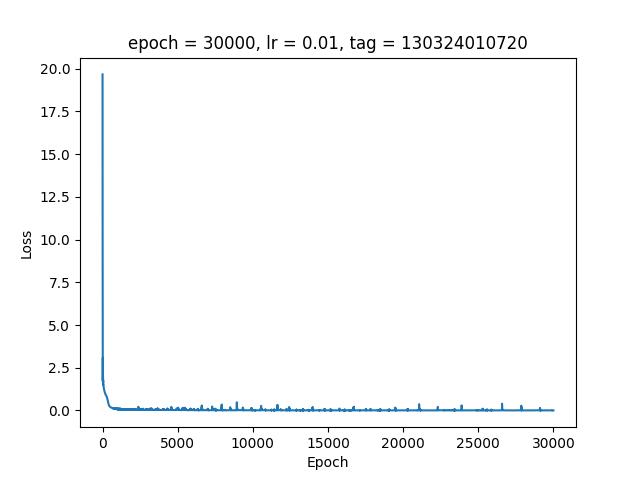
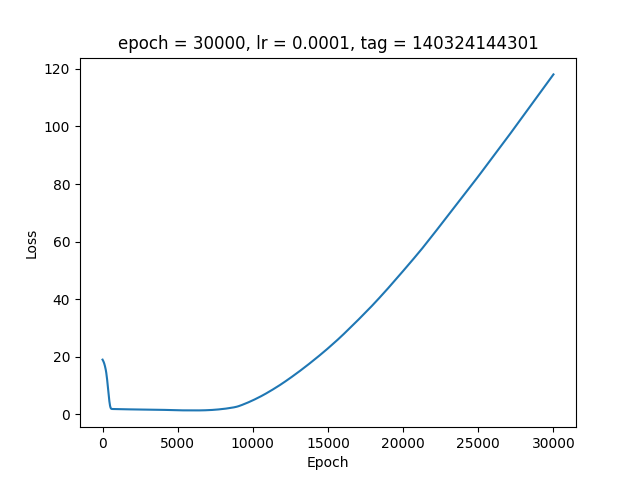
PINN implementation

diff --git a/PINNLoss.py b/PINNLoss.py
@@ -1,12 +1,46 @@
 import torch
 import numpy as np
-def pinnloss(output,target,inputs):
+'''def PINNLoss(output,target,inputs):
     #Mean squared error
     loss = torch.mean((output-target)**2)
-    #Penalty if the first derivative of the output with respect to 'smax' (7th column, 6th index) is positive
-    stress = inputs[:,6]
-    stress.requires_grad = True
-    gradient = torch.autograd.grad(output,stress,retain_graph=True)[0]
+
+    #Penalty if the first derivative of the output with respect to 'smax' (9th column, 8th index) is positive
+    inputs.requires_grad = True
+    outputmean = torch.mean(output)
+    outputmean.backward(retain_graph=True)
+    #print(inputs.grad)
+    gradient1 = inputs.grad[:,8]
+
     #Penalize positive gradients
-    loss += torch.mean(torch.relu(gradient))
+    loss += torch.mean(torch.relu(gradient1))
+
+    #Penalty if the second derivative of the output with respect to 'smax' is negative
+    gradient1.backward(retain_graph=True)
+    gradient2 = inputs.grad[:,8]
+    #print(inputs.grad)
+
+    #Penalize negative gradients
+    loss += torch.mean(torch.relu(-gradient2))
+
+    return loss'''
+
+def PINNLoss(output, target, inputs):
+    # Mean squared error
+    loss = torch.mean((output - target)**2)
+
+    # Compute gradients
+    inputs.requires_grad_(True)
+    outputmean = torch.mean(output)
+    gradient1 = torch.autograd.grad(outputmean, inputs, create_graph=True)[0]
+    
+    # Penalize positive first derivatives
+    loss += torch.mean(torch.relu(gradient1[:, 8]))
+
+    # Compute second derivatives
+    outputmean_grad = torch.autograd.grad(outputmean, inputs, create_graph=True)[0]
+    gradient2 = torch.autograd.grad(outputmean_grad[:, 8], inputs, create_graph=True)[0]
+
+    # Penalize negative second derivatives
+    loss += torch.mean(torch.relu(-gradient2[:, 8]))
+
     return loss

diff --git a/main.py b/main.py
@@ -3,10 +3,9 @@ import torch
 import torch.nn as nn
 import matplotlib.pyplot as plt
 import function as f
+from PINNLoss import PINNLoss
 print(torch.cuda.is_available())
 
-#set custom tag
-tag = ''
 # Load the data
 base = pd.read_csv("Data processing/processed/traindata2.csv")
 base = base.set_index('nr')
@@ -16,8 +15,8 @@ data = base.drop(columns=['Ncycles'])
 target = base[['Ncycles']]
 ndata = len(data.columns)
 print('n inputs:'+str(ndata))
-print(data)
-print(target)
+#print(data)
+#print(target)
 
 # Create an instance of the neural network
 model = f.create_model(ndata, [20, 20, 20, 20, 20], 1)
@@ -25,11 +24,11 @@ model.to('cuda')
 print(model.dummy_param.device)
 
 #Optimizer
-lr = 0.01
+lr = 0.0001
 optimizer = torch.optim.Adam(model.parameters(), lr=lr)
 
 #Loss functions
-criterion = nn.MSELoss()
+#criterion = PINNLoss()
 
 
 
@@ -49,14 +48,16 @@ losses = []
 #Forward pass
 #print(model(X))
 
+X.requires_grad = True
+
 #Train the model
-epochs = 30000
+epochs = 1
 for epoch in range(epochs):
     #Forward pass
     y_pred = model(X)
 
     #Compute the loss
-    loss = criterion(y_pred, y)
+    loss = PINNLoss(y_pred, y, X)
     losses.append(loss.item())
 
     #Zero the gradients
@@ -72,8 +73,7 @@ for epoch in range(epochs):
 plt.plot(losses)
 plt.xlabel('Epoch')
 plt.ylabel('Loss')
-if tag == '':
-    tag = f.timetag()
+tag = f.timetag()
 plt.title('epoch = '+str(epochs)+', lr = '+str(lr)+', tag = '+tag)
 plt.savefig("NNModelArchive/Loss Function Convergence/loss.png")
 plt.show()

diff --git a/NNModelTest.py b/NNModelTest.py
@@ -14,7 +14,7 @@ ndata = len(test_data.columns)
 
 #Load the model
 model = f.create_model(ndata, [20, 20, 20, 20, 20], 1)
-model.load_state_dict(torch.load("NNModelArchive/model130324010720.pth"))
+model.load_state_dict(torch.load("NNModelArchive/model140324144301.pth"))
 model.to('cuda')
 print(model.dummy_param.device)
 
